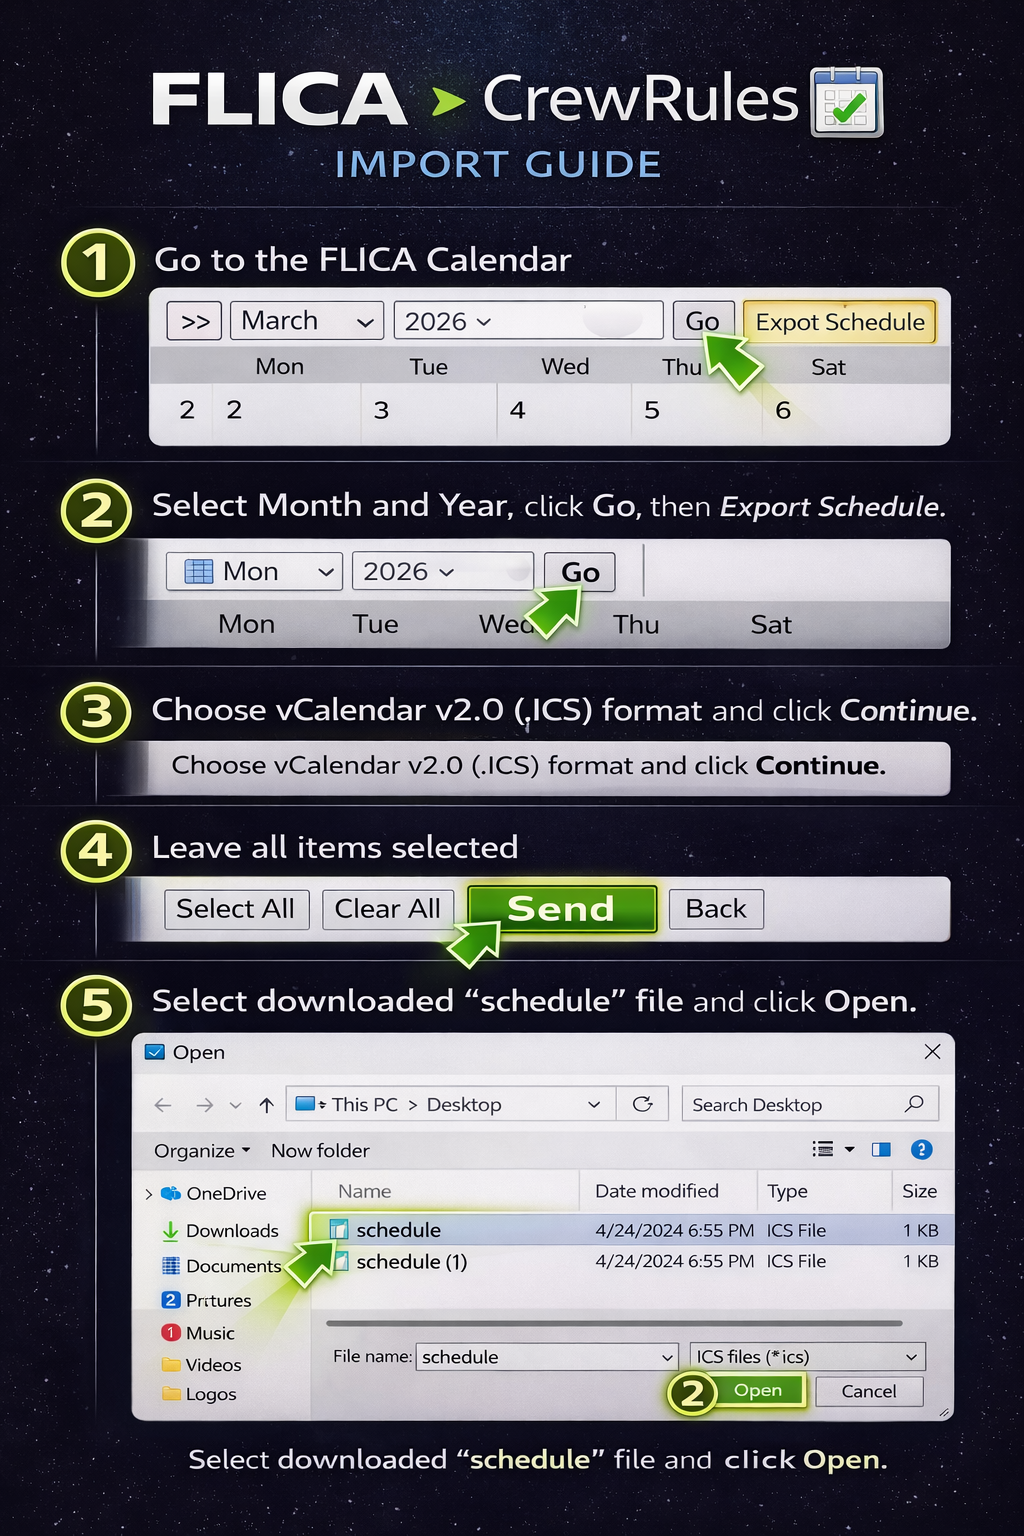
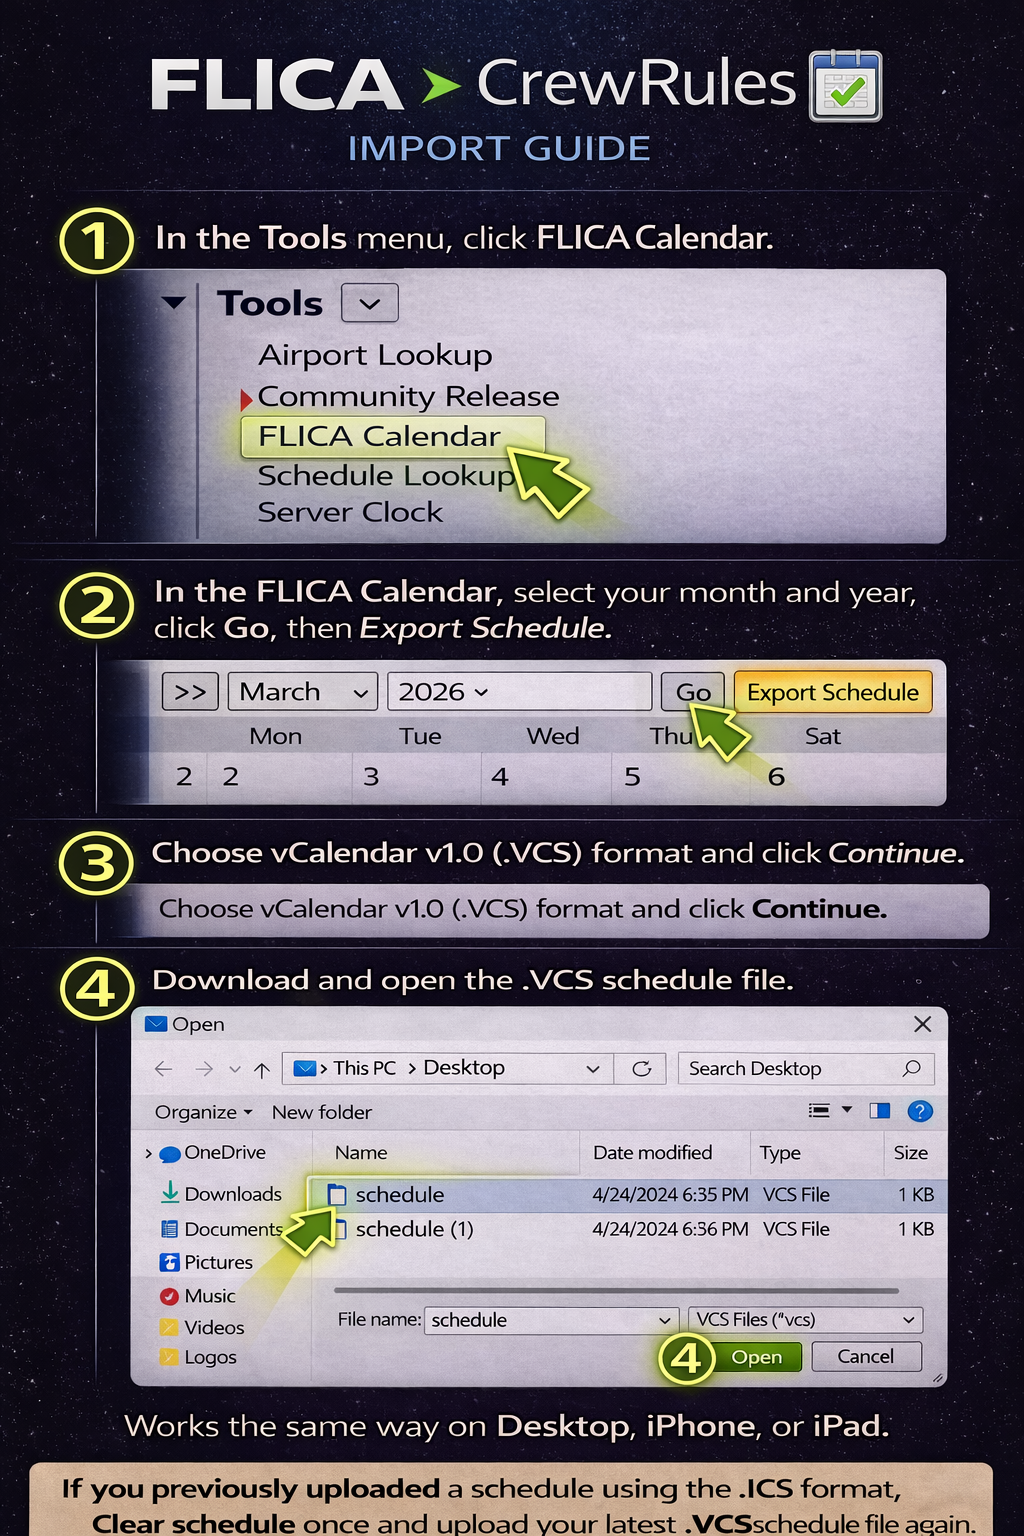
Schedule import: standardize on FLICA vCalendar (.VCS) UI and help
- Schedule page: VCS copy, header, bulleted tips, ICS transition note; email-import bullet removed
- FLICA guide modal/steps and step-3 screenshot (step-3-vcs.png)
- Neutral parse error and changelog wording for schedule imports
- Accept .vcs,text/calendar on manual upload
- Related tweaks in schedule actions, import-flica-html, portal-month-stats; help PNG updates

Made-with: Cursor

diff --git a/app/frontier/pilots/portal/schedule/page.tsx b/app/frontier/pilots/portal/schedule/page.tsx
@@ -14,7 +14,6 @@ import {
 } from "./actions";
 import { InboundEmailDisplay } from "@/components/inbound-email-display";
 import { FlicaIcsHelperModal } from "@/components/flica-ics-helper-modal";
-import { formatLegLine } from "@/lib/trips/detect-trip-changes";
 import type { TripChangeSummary } from "@/lib/trips/detect-trip-changes";
 import { formatMinutesToHhMm } from "@/lib/schedule-time";
 import { ScheduleStatusChip, formatLastImport } from "@/components/schedule-status-chip";
@@ -364,7 +363,7 @@ export default function SchedulePage() {
   const [showClearConfirm, setShowClearConfirm] = useState(false);
   const [importError, setImportError] = useState<string | null>(null);
   const [importTechnicalError, setImportTechnicalError] = useState<string | null>(null);
-  const [tripChangeSummaries, setTripChangeSummaries] = useState<TripChangeSummary[] | null>(null);
+  const [, setTripChangeSummaries] = useState<TripChangeSummary[] | null>(null);
   const [isAdmin, setIsAdmin] = useState(false);
   const [detailsOpen, setDetailsOpen] = useState(false);
   const [status, setStatus] = useState<{ count: number; lastImportedAt: string | null; status: "no_schedule" | "up_to_date" | "outdated" } | null>(null);
@@ -534,7 +533,7 @@ export default function SchedulePage() {
           <input
             ref={fileInputRef}
             type="file"
-            accept=".ics,.vcs,text/calendar"
+            accept=".vcs,text/calendar"
             className="hidden"
             onChange={handleFileChange}
             disabled={importing}
@@ -549,7 +548,7 @@ export default function SchedulePage() {
                 disabled={importing}
                 className="rounded-lg bg-[#75C043] px-4 py-1.5 text-sm font-semibold text-slate-950 hover:opacity-95 transition disabled:opacity-50"
               >
-                {importing ? "Uploading…" : "Upload FLICA Schedule (.ICS)"}
+                {importing ? "Uploading…" : "Upload FLICA schedule (.VCS)"}
               </button>
               {status != null && status.count > 0 && (
                 <button
@@ -566,14 +565,10 @@ export default function SchedulePage() {
         {status != null && status.lastImportedAt && status.status !== "no_schedule" && (
           <p className="mt-2 text-right text-xs text-slate-400">Last Import: {formatLastImport(status.lastImportedAt)}</p>
         )}
-        <p className="mt-1 text-sm text-slate-400">
-          Import your schedule into CrewRules™ using one of these methods:
-        </p>
-        <ul className="mt-1 text-sm text-slate-400 list-disc list-inside space-y-0.5">
-          <li>Automatic updates — Add your CrewRules™ import email to ELP</li>
-          <li>Email import — Send your schedule from FLICA to your CrewRules™ import email</li>
+        <h2 className="mt-2 text-base font-semibold text-slate-200">Import your schedule into CrewRules™</h2>
+        <ul className="mt-2 list-disc space-y-2 pl-5 text-sm text-slate-400 marker:text-slate-400">
           <li>
-            Manual upload — Upload your FLICA .ics file{" "}
+            Upload your FLICA vCalendar v1.0 (.VCS) file to import your full schedule.{" "}
             <button
               type="button"
               onClick={() => setShowFlicaIcsGuide(true)}
@@ -582,43 +577,20 @@ export default function SchedulePage() {
               View guide
             </button>
           </li>
+          <li>
+            Optional: Add your CrewRules™ import email to ELP to receive reserve updates when sent by Crew
+            Scheduling.
+          </li>
         </ul>
+        <p className="mt-2 text-xs text-slate-500">
+          If you previously uploaded a schedule using the .ICS format, tap Clear schedule once and upload your
+          latest .VCS file.
+        </p>
       </div>
 
       {importEmail && (
         <div className="px-4 sm:px-6">
           <InboundEmailDisplay email={importEmail} variant="schedule" />
-        </div>
-      )}
-
-      {tripChangeSummaries && tripChangeSummaries.length > 0 && (
-        <div className="rounded-2xl border border-white/10 bg-slate-950/50 p-4 space-y-3">
-          <h3 className="text-sm font-semibold text-slate-200">Trip updated</h3>
-          {tripChangeSummaries.map((s, i) => (
-            <div key={i} className="space-y-2 text-xs">
-              <p className="font-mono text-slate-300">{s.pairing}</p>
-              {s.removedLegs.length > 0 && (
-                <p className="text-slate-400">
-                  Removed: {s.removedLegs.map((l) => formatLegLine(l, false)).join("; ")}
-                </p>
-              )}
-              {s.addedLegs.length > 0 && (
-                <p className="text-slate-400">
-                  Added: {s.addedLegs.map((l) => formatLegLine(l, true)).join("; ")}
-                </p>
-              )}
-              {s.reportChanged && (
-                <p className="text-slate-400">
-                  Report: {s.reportChanged.before} → {s.reportChanged.after}
-                </p>
-              )}
-              {s.creditChanged && (
-                <p className="text-slate-400">
-                  Credit: {formatMinutesToHhMm(s.creditChanged.before)} → {formatMinutesToHhMm(s.creditChanged.after)}
-                </p>
-              )}
-            </div>
-          ))}
         </div>
       )}
 

diff --git a/app/frontier/pilots/portal/schedule/actions.ts b/app/frontier/pilots/portal/schedule/actions.ts
@@ -242,6 +242,7 @@ export async function getNextDuty(): Promise<{
       .select("id, start_time, end_time, title, event_type, report_time, credit_hours, credit_minutes, route, pairing_days, block_minutes, first_leg_departure_time, legs")
       .eq("user_id", profile.id)
       .eq("source", FLICA_SOURCE)
+      .or("is_muted.eq.false,is_muted.is.null")
       .lte("start_time", nowIso)
       .gt("end_time", nowIso)
       .order("start_time", { ascending: true })
@@ -304,6 +305,7 @@ export async function getNextDuty(): Promise<{
       .select("id, start_time, end_time, title, event_type, report_time, credit_hours, credit_minutes, route, pairing_days, block_minutes, first_leg_departure_time, legs")
       .eq("user_id", profile.id)
       .eq("source", FLICA_SOURCE)
+      .or("is_muted.eq.false,is_muted.is.null")
       .gte("start_time", nowIso)
       .order("start_time", { ascending: true })
       .limit(50);
@@ -356,6 +358,7 @@ async function findNextEventForDate(
     .select("id, start_time, end_time, title, event_type, report_time, credit_hours, credit_minutes, route, pairing_days, block_minutes, first_leg_departure_time, legs")
     .eq("user_id", userId)
     .eq("source", FLICA_SOURCE)
+    .or("is_muted.eq.false,is_muted.is.null")
     .lte("start_time", dayEnd)
     .gte("end_time", dayStart)
     .order("start_time", { ascending: true })
@@ -476,6 +479,7 @@ export async function getUpcomingEvents(limit = 8): Promise<{ events: ScheduleEv
       .select("id, start_time, end_time, title, event_type, report_time, credit_hours, credit_minutes, route, pairing_days, block_minutes, first_leg_departure_time, legs")
       .eq("user_id", profile.id)
       .eq("source", FLICA_SOURCE)
+      .or("is_muted.eq.false,is_muted.is.null")
       .gte("start_time", nowIso)
       .order("start_time", { ascending: true })
       .limit(limit);
@@ -541,6 +545,8 @@ export type MonthStats = {
   rawCreditMinutes: number;
   guaranteeMinutes: number;
   creditAfterGuaranteeMinutes: number;
+  /** Line credit after reserve guarantee floor, plus pickup / non-line trip credit (pre-premium). */
+  finalCreditedMinutes: number;
   paidMinutes: number;
   /** Credit minutes for display (always equals paidMinutes) */
   creditMinutes: number;
@@ -594,6 +600,7 @@ export async function getMonthStats(year?: number, bidMonthIndex?: number): Prom
     rawCreditMinutes: 0,
     guaranteeMinutes: 0,
     creditAfterGuaranteeMinutes: 0,
+    finalCreditedMinutes: 0,
     paidMinutes: 0,
     creditMinutes: 0,
   };
@@ -617,7 +624,7 @@ export async function getMonthStats(year?: number, bidMonthIndex?: number): Prom
     const supabase = await createClient();
     const { data, error } = await supabase
       .from("schedule_events")
-      .select("start_time, end_time, event_type, title, credit_hours, credit_minutes, baseline_credit_minutes, pairing_days, block_minutes, is_muted")
+      .select("start_time, end_time, event_type, title, credit_hours, credit_minutes, baseline_credit_minutes, pairing_days, block_minutes, is_reserve_assignment, is_muted")
       .eq("user_id", profile.id)
       .eq("source", FLICA_SOURCE)
       .lte("start_time", endStr)
@@ -670,6 +677,7 @@ export async function getMonthStats(year?: number, bidMonthIndex?: number): Prom
       baseline_credit_minutes: number | null;
       pairing_days: number | null;
       block_minutes: number | null;
+      is_reserve_assignment: boolean | null;
       is_muted: boolean | null;
     }[];
 
@@ -763,6 +771,10 @@ export async function getMonthStats(year?: number, bidMonthIndex?: number): Prom
           blockHrs = ev.block_minutes / 60;
           creditHrs = evCreditHrs;
           extraHrs = Math.max(0, evCreditHrs - ev.block_minutes / 60);
+        } else if (ev.is_reserve_assignment === true && evCreditHrs != null && evCreditHrs > 0) {
+          creditHrs = evCreditHrs;
+          blockHrs = 0;
+          extraHrs = 0;
         } else if (ev.pairing_days != null || ev.block_minutes != null) {
           const { blockMinutes, creditMinutes, extraCreditMinutes } = computeTripCredit(
             ev.pairing_days,
@@ -859,6 +871,7 @@ export async function getMonthStats(year?: number, bidMonthIndex?: number): Prom
       rawCreditMinutes,
       guaranteeMinutes,
       creditAfterGuaranteeMinutes,
+      finalCreditedMinutes,
       paidMinutes,
       creditMinutes: paidMinutes,
       creditDeltaMinutes: totalCreditDeltaMinutes,

diff --git a/lib/schedule/import-ics-from-text.ts b/lib/schedule/import-ics-from-text.ts
@@ -95,7 +95,7 @@ export async function importIcsFromText(
   try {
     parsed = parseIcs(icsText, { sourceTimezone });
   } catch {
-    return { error: "Invalid ICS file. Could not parse calendar." };
+    return { error: "Could not read this schedule file. Check that it is a valid FLICA vCalendar (.VCS) export." };
   }
 
   const now = new Date();
@@ -130,6 +130,12 @@ export async function importIcsFromText(
 
   if (events.length === 0) {
     return { error: "No calendar events found in the file" };
+  }
+
+  const uidCounts = new Map<string, number>();
+  for (const ev of events) {
+    const u = ev.externalUid?.trim() ?? "";
+    if (u.length > 0) uidCounts.set(u, (uidCounts.get(u) ?? 0) + 1);
   }
 
   const sortedByStart = [...events].sort((a, b) => a.start.getTime() - b.start.getTime());
@@ -188,15 +194,24 @@ export async function importIcsFromText(
   };
 
   let rows = events.map((e) => {
-    const baseUid =
-      e.externalUid?.trim() ||
-      `anon-${createHash("sha256").update(`${e.start.toISOString()}|${e.end.toISOString()}|${e.title}`).digest("hex").slice(0, 24)}`;
-    const externalUid = `${baseUid}-${e.start.toISOString()}`;
+    const trimmedUid = e.externalUid?.trim() ?? "";
+    const hashPart = createHash("sha256")
+      .update(`${e.start.toISOString()}|${e.end.toISOString()}|${e.title}`)
+      .digest("hex")
+      .slice(0, 24);
+    let externalUid: string;
+    if (trimmedUid.length === 0) {
+      externalUid = `anon-${hashPart}`;
+    } else if ((uidCounts.get(trimmedUid) ?? 0) > 1) {
+      externalUid = `cr-ics-dup-${hashPart}`;
+    } else {
+      externalUid = trimmedUid;
+    }
     return toRow({ ...e, externalUid });
   });
 
-  // Prevents duplicate trip rows when the same trip is re-imported from email updates or retries.
-  // 1. Dedupe within incoming rows (keep first by title, start_time, end_time, source)
+  // Dedupe within the incoming file only. Rows already in DB must still be upserted so that after the
+  // bid-window mute step they are re-written with is_muted: false (avoids "Previous" stale rows).
   const seenInBatch = new Set<string>();
   rows = rows.filter((r) => {
     const key = `${r.title ?? ""}|${r.start_time}|${r.end_time}|${r.source}`;
@@ -204,23 +219,6 @@ export async function importIcsFromText(
     seenInBatch.add(key);
     return true;
   });
-
-  // 2. Skip rows that already exist (user_id, title, start_time, end_time, source)
-  if (rows.length > 0) {
-    const minStartTime = rows.reduce((a, r) => (r.start_time < a ? r.start_time : a), rows[0].start_time);
-    const maxStartTime = rows.reduce((a, r) => (r.start_time > a ? r.start_time : a), rows[0].start_time);
-    const { data: existingRows } = await supabase
-      .from("schedule_events")
-      .select("title, start_time, end_time")
-      .eq("user_id", userId)
-      .eq("source", FLICA_SOURCE)
-      .gte("start_time", minStartTime)
-      .lte("start_time", maxStartTime);
-    const existingKeys = new Set(
-      (existingRows ?? []).map((e) => `${(e as { title: string | null }).title ?? ""}|${(e as { start_time: string }).start_time}|${(e as { end_time: string }).end_time}|${FLICA_SOURCE}`)
-    );
-    rows = rows.filter((r) => !existingKeys.has(`${r.title ?? ""}|${r.start_time}|${r.end_time}|${r.source}`));
-  }
 
   if (rows.length === 0) {
     return {

diff --git a/components/portal-month-stats.tsx b/components/portal-month-stats.tsx
@@ -108,6 +108,9 @@ export function PortalMonthStatsClient({ tenant, portal, profile, availableMonth
 
   if (!stats || availableMonths.length === 0) return null;
 
+  const showReserveGuaranteeCredit =
+    stats.guaranteeMinutes > 0 && stats.finalCreditedMinutes !== stats.rawCreditMinutes;
+
   return (
     <div className="rounded-3xl border border-slate-200 bg-white p-6 shadow-sm transition-all duration-200 hover:-translate-y-0.5 hover:shadow-md hover:border-emerald-400/30 dark:border-white/5 dark:bg-slate-950 dark:bg-gradient-to-b dark:from-slate-900/60 dark:to-slate-950/80 dark:shadow-[0_0_0_1px_rgba(255,255,255,0.03)] dark:hover:shadow-[0_10px_30px_rgba(0,0,0,0.4)] dark:hover:border-emerald-400/20">
       <div className="flex flex-col gap-3 border-b border-slate-200 pb-2 dark:border-white/5 sm:flex-row sm:items-center sm:justify-between">
@@ -157,6 +160,17 @@ export function PortalMonthStatsClient({ tenant, portal, profile, availableMonth
                 </p>
                 <p className="text-xs text-slate-500 dark:text-slate-300">Credit</p>
               </div>
+              {showReserveGuaranteeCredit && (
+                <div className="min-w-0 space-y-0.5 pt-2">
+                  <p className="tabular-nums text-base font-normal leading-tight text-amber-800 dark:text-amber-300">
+                    {formatMinutesToHhMm(stats.finalCreditedMinutes ?? 0)}
+                  </p>
+                  <p className="text-xs font-medium text-slate-600 dark:text-slate-300">Credit (with reserve guarantee)</p>
+                  <p className="text-[11px] leading-snug text-slate-500 dark:text-slate-400">
+                    Includes reserve guarantee when it applies, plus pickup flying.
+                  </p>
+                </div>
+              )}
               <div className="min-w-0 border-t border-slate-200 pt-2 dark:border-white/10">
                 <p className="tabular-nums text-base font-normal leading-tight text-amber-800 dark:text-amber-300">
                   {formatMinutesToHhMm(Math.round((stats.totalBlock ?? 0) * 60))}

diff --git a/lib/schedule/import-flica-html.ts b/lib/schedule/import-flica-html.ts
@@ -191,8 +191,8 @@ export async function importFlicaHtmlFromText(
     return toRow({ ...e, externalUid });
   });
 
-  // Prevents duplicate trip rows when the same trip is re-imported from email updates or retries.
-  // 1. Dedupe within incoming rows (keep first by title, start_time, end_time, source)
+  // Dedupe within the incoming file only. Rows already in DB must still be upserted so that after the
+  // bid-window mute step they are re-written with is_muted: false (avoids "Previous" stale rows).
   const seenInBatch = new Set<string>();
   rows = rows.filter((r) => {
     const key = `${r.title ?? ""}|${r.start_time}|${r.end_time}|${r.source}`;
@@ -200,23 +200,6 @@ export async function importFlicaHtmlFromText(
     seenInBatch.add(key);
     return true;
   });
-
-  // 2. Skip rows that already exist (user_id, title, start_time, end_time, source)
-  if (rows.length > 0) {
-    const minStartTime = rows.reduce((a, r) => (r.start_time < a ? r.start_time : a), rows[0].start_time);
-    const maxStartTime = rows.reduce((a, r) => (r.start_time > a ? r.start_time : a), rows[0].start_time);
-    const { data: existingRows } = await supabase
-      .from("schedule_events")
-      .select("title, start_time, end_time")
-      .eq("user_id", userId)
-      .eq("source", FLICA_SOURCE)
-      .gte("start_time", minStartTime)
-      .lte("start_time", maxStartTime);
-    const existingKeys = new Set(
-      (existingRows ?? []).map((e) => `${(e as { title: string | null }).title ?? ""}|${(e as { start_time: string }).start_time}|${(e as { end_time: string }).end_time}|${FLICA_SOURCE}`)
-    );
-    rows = rows.filter((r) => !existingKeys.has(`${r.title ?? ""}|${r.start_time}|${r.end_time}|${r.source}`));
-  }
 
   if (rows.length === 0) {
     return {

diff --git a/components/flica-ics-helper.tsx b/components/flica-ics-helper.tsx
@@ -15,9 +15,9 @@ const STEPS = [
   },
   {
     step: 3,
-    title: "Choose ICS Format",
-    text: "Select vCalendar v2.0 (.ICS) and continue",
-    image: "/help/flica/step-3-ics.png",
+    title: "Choose export format",
+    text: "Select vCalendar v1.0 (.VCS) and continue",
+    image: "/help/flica/step-3-vcs.png",
   },
   {
     step: 4,
@@ -28,7 +28,7 @@ const STEPS = [
   {
     step: 5,
     title: "Upload to CrewRules",
-    text: "Upload the downloaded .ics file here",
+    text: "Upload the downloaded .VCS file on My Schedule",
     image: "/help/flica/step-5-upload.png",
   },
 ] as const;
@@ -69,6 +69,9 @@ export function FlicaIcsHelper() {
       <footer className="mt-6 space-y-1 border-t border-slate-200 pt-4 text-sm text-slate-500">
         <p>File downloads to your Downloads folder</p>
         <p>No need to rename — CrewRules detects the month automatically</p>
+        <p className="text-slate-600">
+          If you previously uploaded a schedule using the .ICS format, tap Clear schedule once and upload your latest .VCS schedule file again.
+        </p>
       </footer>
     </div>
   );

diff --git a/components/flica-ics-helper-modal.tsx b/components/flica-ics-helper-modal.tsx
@@ -25,7 +25,7 @@ export function FlicaIcsHelperModal({ open, onClose }: Props) {
       >
         <div className="flex shrink-0 items-center justify-between border-b border-white/10 px-4 py-3">
           <h2 id="flica-helper-modal-title" className="text-lg font-semibold text-white">
-            FLICA ICS Import Guide
+            FLICA schedule import guide
           </h2>
           <button
             type="button"

diff --git a/lib/portal/system-updates-changelog.ts b/lib/portal/system-updates-changelog.ts
@@ -55,7 +55,7 @@ export const SYSTEM_UPDATES_CHANGELOG: readonly SystemUpdateEntry[] = [
     title: "Schedule import reliability",
     type: "fix",
     bullets: [
-      "More resilient handling of repeated ICS imports.",
+      "More resilient handling of repeated schedule imports.",
       "Fewer duplicate trip rows when re-syncing from email.",
     ],
   },
